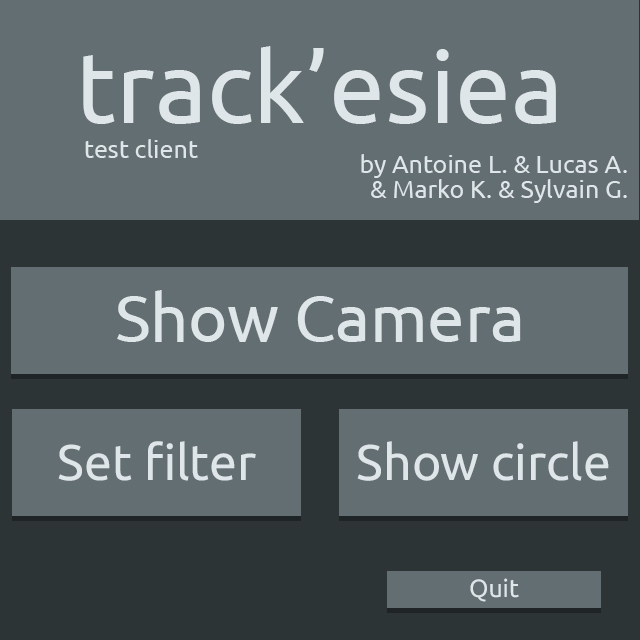
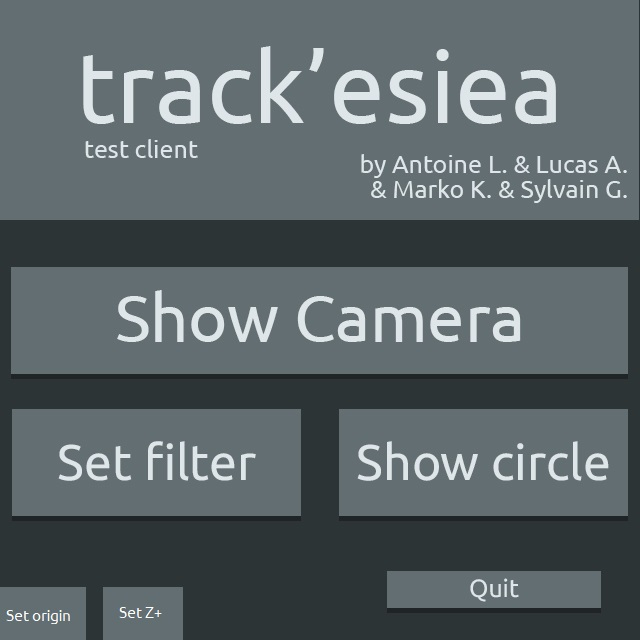
fonctions calibrage caméra terminé !

Changed region(s): [[0.0, 0.9062, 0.3125, 1.0]]

diff --git a/trackesiea/Client_Test/client_test.cpp b/trackesiea/Client_Test/client_test.cpp
@@ -44,6 +44,13 @@ void onMouseEventMenu(int event, int x, int y, int flags, void* userdata) //
 		if (x > 11 && x < 628 && y>267 && y < 374) { // Sauvegarde
 			tracker.save_params();
 		}
+		if (x > 0 && x < 85 && y>588 && y < 640) { // Origine
+			tracker.set_world_origin();
+		}
+		if (x > 104 && x < 183 && y>588 && y < 640) { // Zaxis
+			tracker.set_world_zaxis();
+			tracker.calibrate_camera_pose();
+		}
 		
 		if (x > 12 && x < 301 && y>409 && y < 516) { showFilter = !showFilter; } // Activer/Desactiver le filtre
 		if (x > 339 && x < 628 && y>409 && y < 516) { showCircle = !showCircle; } // Afficher le cercle
@@ -65,7 +72,9 @@ void showGraph()
 {
 	Point3f speed = tracker.get_speed();
 	Mat debugGraphFrame = debugGraph.clone();
-	circle(debugGraphFrame, Point((trackedPos.x*5.0 + 500), trackedPos.z*5.0), 2, Scalar(0, 0, 255), 2, -1, 0); // XZ Debug
+	Point3f camPosition = tracker.get_camera_world_position();
+	circle(debugGraphFrame, Point((trackedPos.x*5.0 + 500), trackedPos.z*5.0+500), 2, Scalar(0, 0, 255), 2, -1, 0); // XZ Debug
+	circle(debugGraphFrame, Point((camPosition.x*5.0 + 500), camPosition.z*5.0 + 500), 2, Scalar(255, 255, 0), 2, -1, 0); // CameraPosition
 	char debugText[100]; sprintf_s(debugText, "X:%.1fcm  Y:%.1fcm Z: %.1fcm dX:%.1fcm  dY:%.1fcm dZ: %.1fcm", trackedPos.x, trackedPos.y, trackedPos.z,
 	speed.x,speed.y, speed.z);
 	putText(debugGraphFrame, debugText, Point2i(10, 975), CV_FONT_HERSHEY_SIMPLEX, 1, Scalar(0, 0, 0), 2, LINE_AA);
@@ -83,7 +92,7 @@ void showfilteredCam()
 	tracker.set_filter_range(hsvRange);
 	tracker.track();
 	Point3f trackedPos2D = tracker.get_2D_position();
-	trackedPos = tracker.get_position();
+	trackedPos = tracker.get_world_position();
 	frame = tracker.get_video_frame();
 	thresholdedFrame = tracker.get_binary_frame();
 	//cout << "Tracking Rate: " << tracker.get_tracking_rate() << endl;
